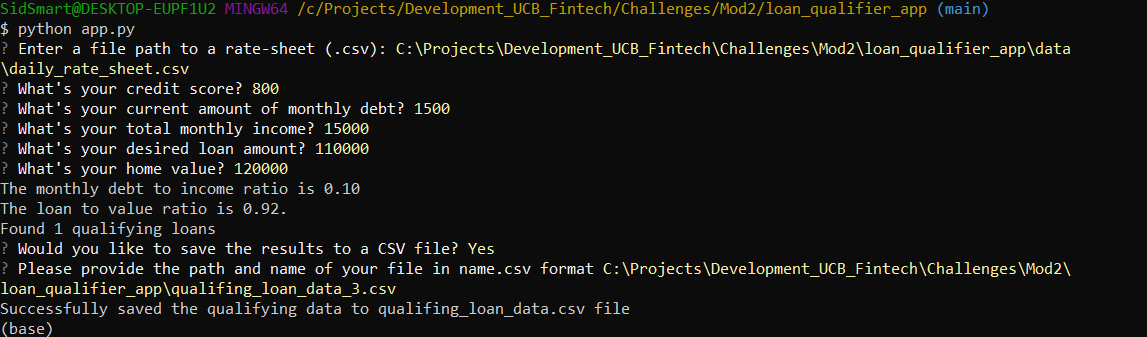
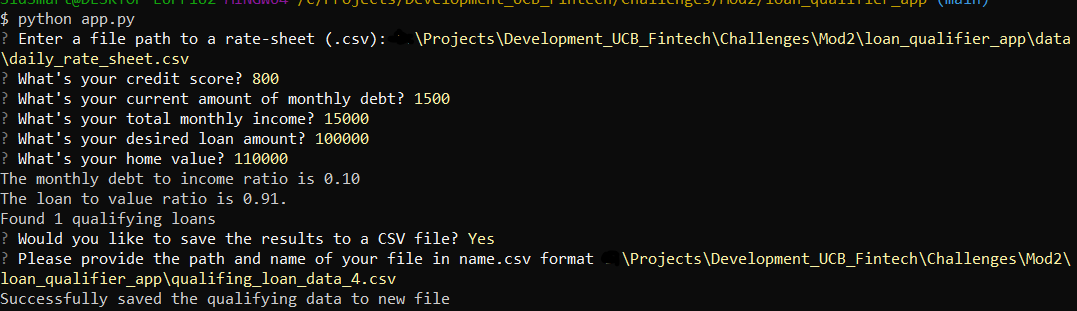
Final Update: Made minor corrections to show better comments and screenshot

Changed region(s): [[0.0, 0.0, 1.0, 1.0]]

diff --git a/qualifier/utils/save_csv.py b/qualifier/utils/save_csv.py
@@ -33,4 +33,4 @@ def save_csv(qualifying_loan_data, new_csv_path_and_filename):
         # Write each item in bank_data_filtered as a row in the CSV file   
         for item in qualifying_loan_data:
             csvwriter.writerow(item)
-    print("Successfully saved the qualifying data to qualifing_loan_data.csv file")
+    print("Successfully saved the qualifying data to new file")
